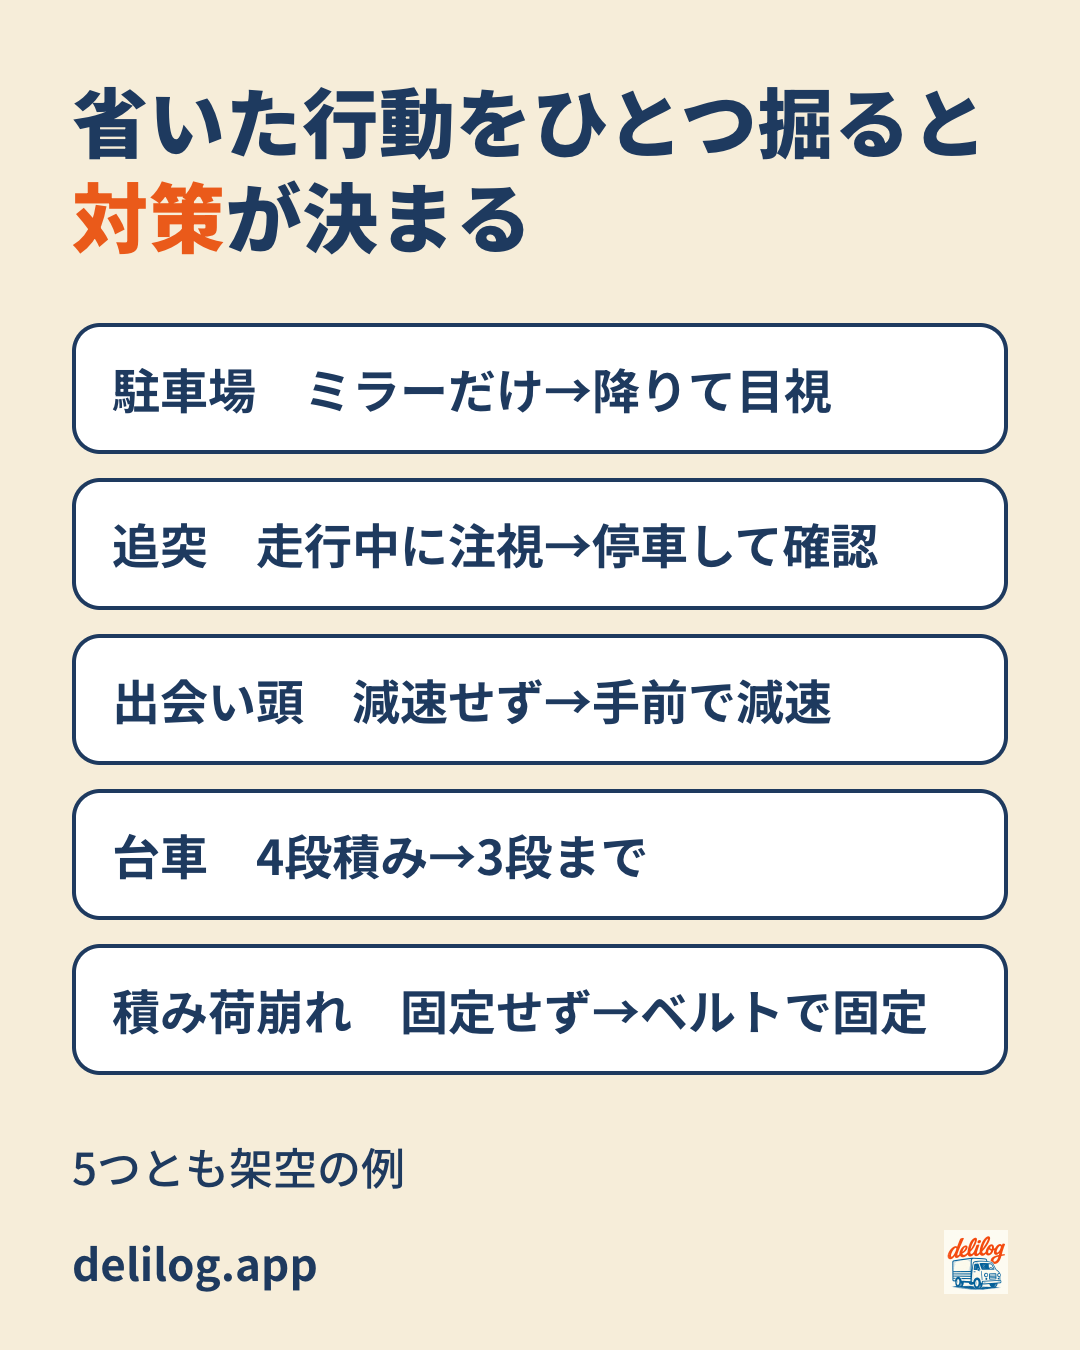
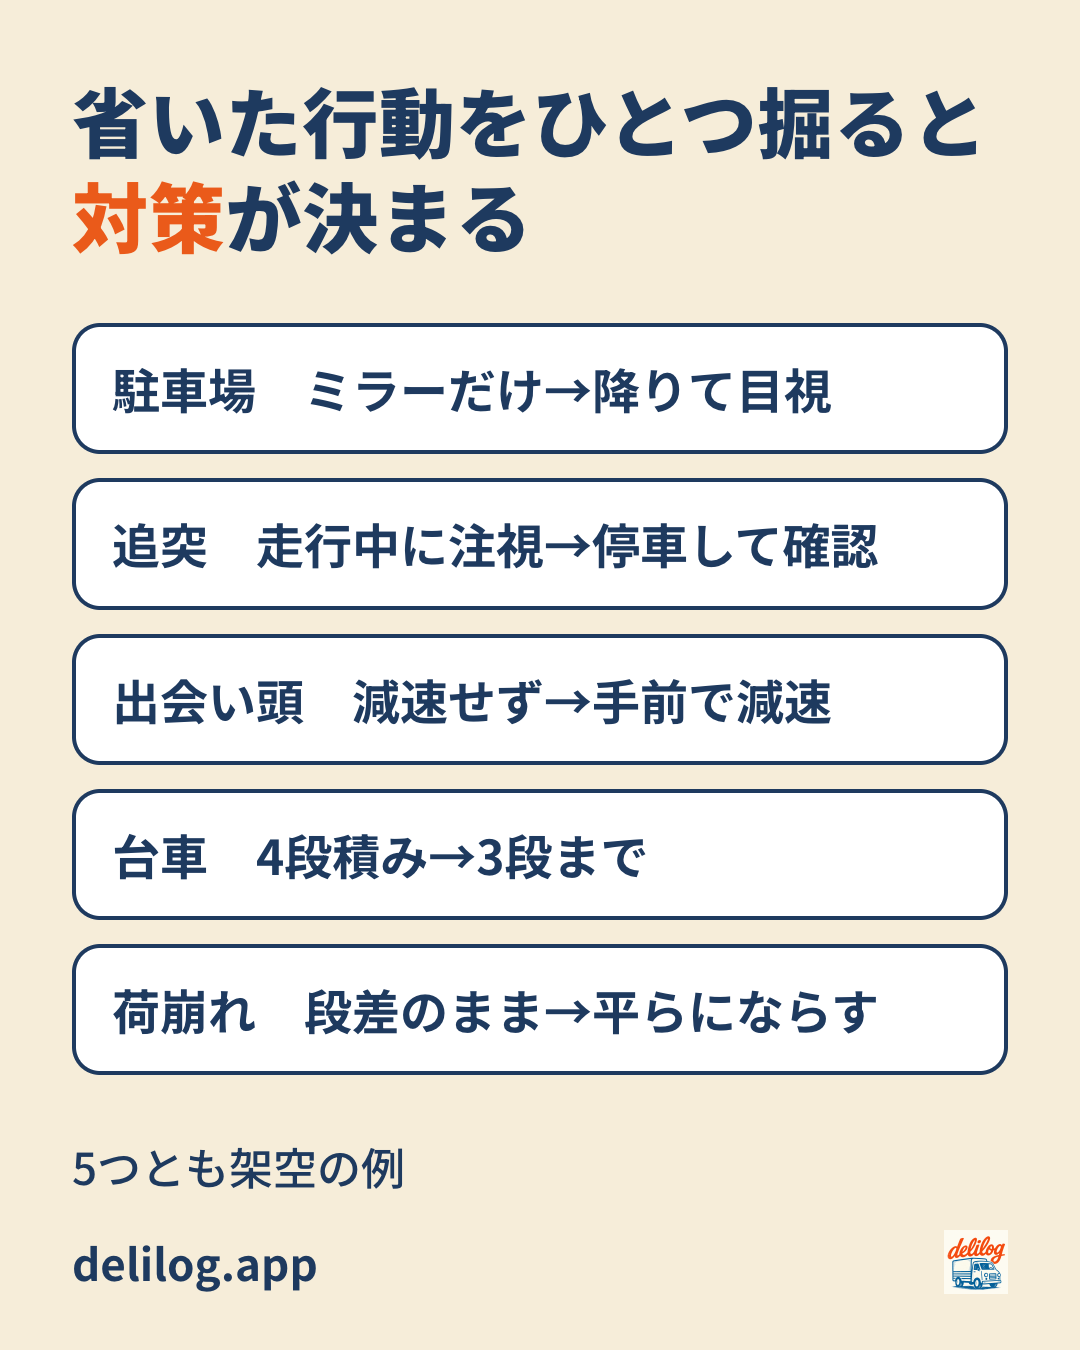
fix: 例文5（荷台の積み荷崩れ）を崩れない積み方と降ろすたびに平らにならす対策に変える

Changed region(s): [[0.0917, 0.7156, 0.8556, 0.7778]]

diff --git a/content/figures/jiko-saihatsu-boushi-reibun/patterns.html b/content/figures/jiko-saihatsu-boushi-reibun/patterns.html
@@ -4,7 +4,7 @@
   <div class="fig-card" data-item>追突　走行中に注視→停車して確認</div>
   <div class="fig-card" data-item>出会い頭　減速せず→手前で減速</div>
   <div class="fig-card" data-item>台車　4段積み→3段まで</div>
-  <div class="fig-card" data-item>積み荷崩れ　固定せず→ベルトで固定</div>
+  <div class="fig-card" data-item>荷崩れ　段差のまま→平らにならす</div>
 </div>
 <p class="fig-note" data-item>5つとも架空の例</p>
 <div class="fig-footer"><span>delilog.app</span><img src="/app_icon.png" alt=""></div>

diff --git a/content/blog/jiko-saihatsu-boushi-reibun.md b/content/blog/jiko-saihatsu-boushi-reibun.md
@@ -127,13 +127,13 @@ author: "delilog編集部"
 
 ### 例文5　荷台の積み荷崩れ
 
-荷台の段ボール箱を固定せずに走行し、交差点を曲がったときに荷が崩れて、1箱が破損した（けが人なし、荷物の破損）。
+配達の途中で荷台に段差が残ったまま走行し、交差点を曲がったときに上の段の箱が崩れて、1箱が破損した（けが人なし、荷物の破損）。
 
-> **原因**: 荷の間に隙間があるまま、ベルトも滑り止めマットも使わなかった。配達順に取り出しやすい置き方を優先した。
+> **原因**: 配達順の取り出しやすさを優先して、軽い箱の上に重い箱を重ねていた。荷を降ろして荷台に段差ができたあとも、そのまま走った。
 
-> **再発防止対策**: 積み込みのときに、重い荷を下、軽い荷を上に置き、荷の間の隙間をなくす。走行前に、ベルトか滑り止めマットで荷を固定する。荷を降ろして残りが減ったときも、積み直して固定し直してから出発する。
+> **再発防止対策**: 積み込みのときは、重い荷を下、軽い荷を上にして、崩れにくい形に積む。配達先で荷を降ろしたら、その場で荷台を見て、高く残った段を崩して平らにならしてから発車する。
 
-ポイントは「荷が減ったとき」という場面です。積み込みのときだけでなく、途中の積み直しまで対策に入れています。
+ポイントは「荷を降ろした時点」という場面です。荷が減ると段差ができ、崩れやすくなります。この例では、ベルトで固定するのではなく、崩れない形に積むことと、降ろすたびに平らにならす行動を対策にしています。
 
 ### 5つに共通するコツ
 
@@ -143,7 +143,7 @@ author: "delilog編集部"
 - ナビを見た追突は、走行中に注視した。対策は停車して確認する
 - 住宅街の出会い頭は、減速せず進入した。対策は手前で減速して左右を見る
 - 台車の荷役は、4段積みで段差を越えた。対策は3段までで、段差は止まる
-- 積み荷崩れは、固定せず走った。対策は隙間をなくしてベルトで固定する
+- 積み荷崩れは、段差を残したまま走った。対策は降ろすたびに荷台を平らにならす
 
 ![5つの事故はどれも、省いた行動をひとつ掘ると対策の行動が決まる](/blog/jiko-saihatsu-boushi-reibun/patterns.png)
 
